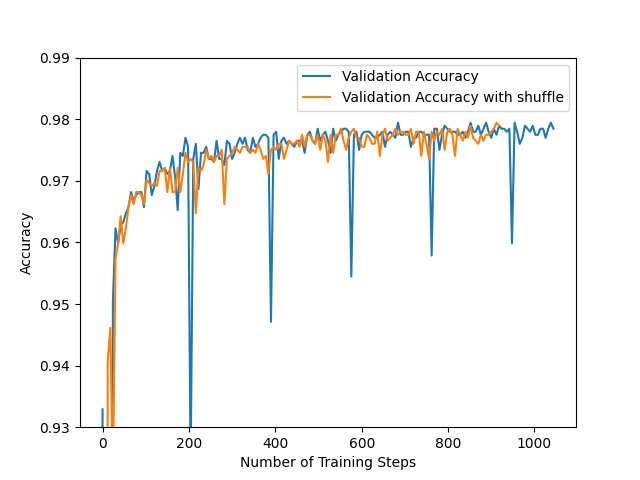
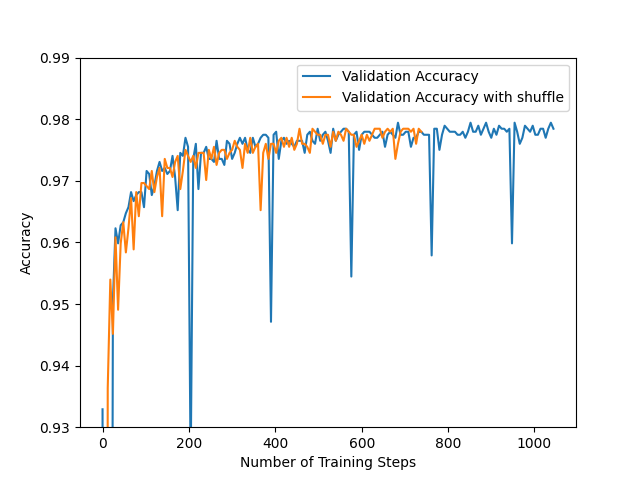
Added 3b and 3c

Changed region(s): [[0.1562, 0.25, 0.7812, 0.9062]]

diff --git a/assignment1/task3.py b/assignment1/task3.py
@@ -17,7 +17,11 @@ def calculate_accuracy(X: np.ndarray, targets: np.ndarray, model: SoftmaxModel) 
         Accuracy (float)
     """
     # TODO: Implement this function (task 3c)
-    accuracy = 0
+    accuracy = 0.0
+    logits = model.forward(X)
+    logits = [(1 if l >= 0.5 else 0) for l in logits]
+    accuracy = (1/targets.shape[0])*np.sum([(1 if t == l else 0) for (t, l) in zip(targets, logits)])
+
     return accuracy
 
 
@@ -36,7 +40,10 @@ class SoftmaxTrainer(BaseTrainer):
             loss value (float) on batch
         """
         # TODO: Implement this function (task 3b)
-        loss = 0
+        logits = self.model.forward(X_batch)
+        self.model.backward(X_batch, logits, Y_batch)
+        self.model.w = self.model.w - self.learning_rate*self.model.grad
+        loss = cross_entropy_loss(Y_batch, logits)
         return loss
 
     def validation_step(self):

diff --git a/assignment1/task3a.py b/assignment1/task3a.py
@@ -25,7 +25,7 @@ class SoftmaxModel:
         self.I = None
 
         # Define number of output nodes
-        self.num_outputs = None
+        self.num_outputs = 10
         self.w = np.zeros((self.I, self.num_outputs))
         self.grad = None
 
